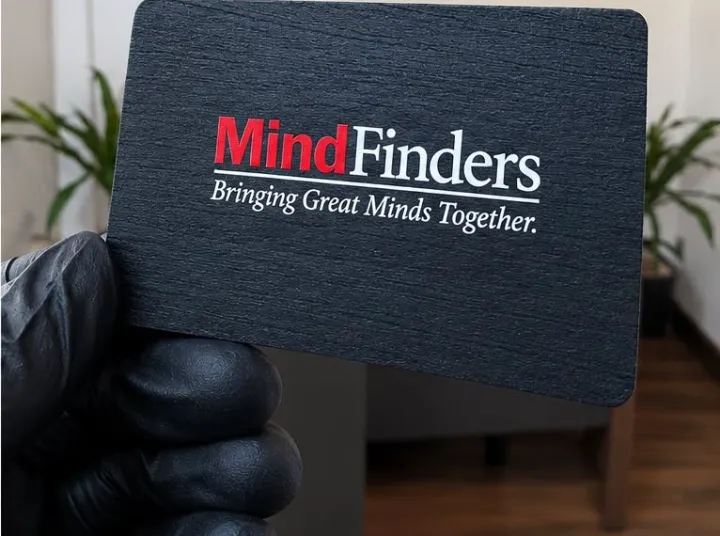
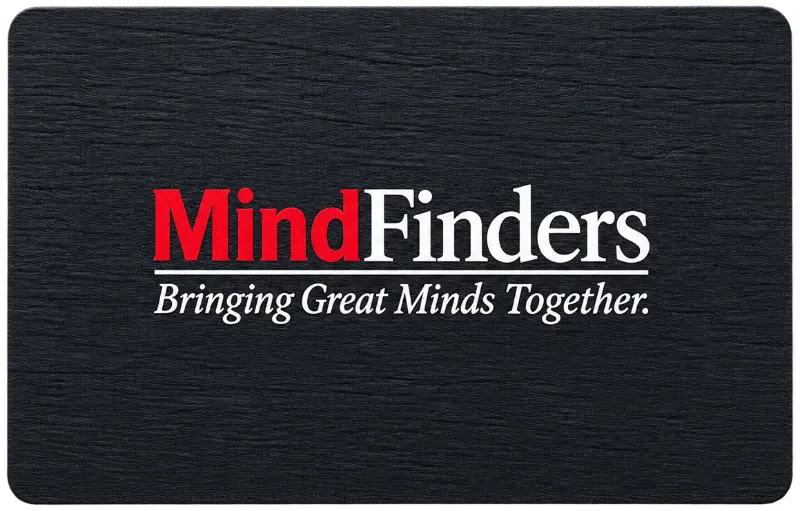
Card pages: cut-out wood photos, homepage-sized hero, full reviews
- Card section: the new transparent wood photos (trimmed to the card,
  800px webp), replacing the cropped photos.
- Hero: heading size, line height and top spacing match the homepage
  hero from 900px; the card is smaller (460px), centred beside the text
  and floating; no card on phones (its preload is desktop-only); no
  "Trusted by" line.
- Reviews: the homepage's marquee exactly, all reviews.
- "TAP. CONNECT." / "DONE." on two lines.
- Card section button names the card ("Get your Wood LuxeCard"); an
  optional label on the shared section, so the homepage is unchanged.

diff --git a/src/components/CardLandingPage.tsx b/src/components/CardLandingPage.tsx
@@ -1,7 +1,7 @@
 import { useEffect, useRef, useState, type ReactNode } from 'react';
 import { activeOffer, FINISH_PRICES_BY_LABEL, offerUnitPrice, productId } from '../../api/_lib/pricing';
 import { cardPageFaqs, HERO_IMAGE_SIZES, headlineParts, type CardFinishChoice, type CardPage } from '../data/cardPages';
-import { CUSTOMER_COUNT, PHOTOS_BY_MATERIAL, TESTIMONIALS } from '../data/content';
+import { PHOTOS_BY_MATERIAL } from '../data/content';
 import { useMountReveal } from '../hooks/useMountReveal';
 import { useOffer } from '../hooks/useOffer';
 import { hasAdConsent, onConsentChange } from '../utils/consent';
@@ -42,9 +42,6 @@ const photoFile = (caption: string) => caption.toLowerCase().replace(' ', '-');
 export function CardLandingPage({ card }: { card: CardPage }) {
   const [finish, setFinish] = useRememberedFinish(card);
   useViewContent(card);
-  const testimonials = card.testimonials
-    .map((name) => TESTIMONIALS.find((t) => t.name === name))
-    .filter((t) => t !== undefined);
   const gallery = card.gallery;
   const photos = gallery
     ? PHOTOS_BY_MATERIAL[gallery.material].filter((p) => !gallery.exclude?.includes(photoFile(p.caption)))
@@ -53,16 +50,26 @@ export function CardLandingPage({ card }: { card: CardPage }) {
   return (
     <main className="pt-[var(--nav-h)]">
       <CardHero card={card} finish={finish} onFinish={setFinish} />
-      <Testimonials testimonials={testimonials} />
+      {/* The homepage's reviews, exactly as there. */}
+      <Testimonials />
       <Ecosystem
         id="card"
         heading={<Headline text={card.showcase.headline} />}
         label={card.showcase.label}
         items={card.showcase.items}
         onOrder={scrollToOrder}
+        orderLabel={card.showcaseCta}
         trackViewContent={false}
       />
-      <HowItWorks heading={<Headline text="TAP. [CONNECT.] DONE." />} />
+      <HowItWorks
+        heading={
+          <>
+            TAP. <span className="text-accent">CONNECT.</span>
+            <br />
+            DONE.
+          </>
+        }
+      />
       {photos.length > 0 && (
         <Professionals
           heading={
@@ -248,7 +255,8 @@ function CardHero({ card, finish, onFinish }: { card: CardPage; finish: string |
   return (
     <section
       id="top"
-      className="relative overflow-hidden px-[clamp(20px,4vw,48px)] pb-[clamp(64px,9vh,120px)] pt-[clamp(28px,calc(12vh-60px),84px)]"
+      // From 900px: the homepage hero's own top spacing.
+      className="relative overflow-hidden px-[clamp(20px,4vw,48px)] pb-[clamp(64px,9vh,120px)] pt-[clamp(28px,calc(12vh-60px),84px)] min-[900px]:pt-[clamp(24px,calc(15vh-80px),84px)]"
       style={{ background: 'radial-gradient(120% 90% at 78% 10%, #16161A 0%, #0B0B0D 46%, #08080A 100%)' }}
     >
       <div
@@ -257,7 +265,9 @@ function CardHero({ card, finish, onFinish }: { card: CardPage; finish: string |
       >
         <div style={textStyle}>
           <div className={EYEBROW}>{card.hero.eyebrow}</div>
-          <h1 className="m-0 mb-6 font-manrope text-[clamp(40px,6.2vw,84px)] font-extrabold leading-[.98] max-md:leading-[1.04] tracking-[-0.035em] text-balance">
+          {/* From 900px: exactly the homepage hero heading's size (.hero-title)
+              and line height. */}
+          <h1 className="m-0 mb-6 font-manrope text-[clamp(40px,6.2vw,84px)] font-extrabold leading-[.98] max-md:leading-[1.04] tracking-[-0.035em] text-balance min-[900px]:text-[length:min(78px,calc((100vw_-_2*clamp(20px,4vw,48px)_-_clamp(48px,6vw,80px))/16.2))] min-[900px]:leading-[.96]">
             <Headline text={card.hero.headline} />
           </h1>
           <p className="m-0 mb-8 max-w-[480px] text-[clamp(16px,1.35vw,19px)] leading-[1.5] text-[rgba(243,240,234,.6)] text-pretty">
@@ -268,28 +278,27 @@ function CardHero({ card, finish, onFinish }: { card: CardPage; finish: string |
           <PrimaryButton onClick={scrollToOrder} className="mt-7">
             {card.cta} <span className="font-inter">→</span>
           </PrimaryButton>
-          <p className="m-0 mt-7 font-inter text-[11px] font-medium uppercase tracking-[.14em] text-grey-1">
-            Trusted by {CUSTOMER_COUNT}+ professionals across Kenya
-          </p>
         </div>
 
-        <div className="relative">
+        {/* Desktop only (phones go straight from the text to the reviews);
+            smaller, and centred beside the text. */}
+        <div className="relative hidden self-center min-[900px]:block">
           {/* A soft gold glow behind the card, like the homepage hero's. */}
           <div
             aria-hidden="true"
             className="pointer-events-none absolute left-1/2 top-1/2 h-[120%] w-[120%] -translate-x-1/2 -translate-y-1/2"
             style={{ background: 'radial-gradient(closest-side, rgba(253,211,3,.16), rgba(253,211,3,.04) 60%, transparent)' }}
           />
-          {/* Smaller on phones; it floats like the cards in the homepage's
-              "Crafted to Impress" (no motion with reduced motion). */}
-          <div className="animate-lc-float relative mx-auto aspect-[960/550] w-full max-w-[260px] sm:max-w-[420px] min-[900px]:max-w-[620px]">
+          {/* It floats like the cards in the homepage's "Crafted to Impress"
+              (no motion with reduced motion). */}
+          <div className="animate-lc-float relative mx-auto aspect-[960/550] w-full max-w-[460px]">
             {choices.map((choice, i) => (
               <FinishImage
                 key={choice.label}
                 choice={choice}
-                // The first finish is preloaded from <head>; the others are
-                // fetched lazily (they're on screen, so straight away).
-                eager={i === 0}
+                // Lazy, so phones (where it's hidden) never fetch it; on
+                // desktop the first finish is preloaded from <head>.
+                eager={false}
                 sizes={HERO_IMAGE_SIZES}
                 className={`transition-opacity duration-500 ${
                   (finish ? choice.label === finish : i === 0) ? 'opacity-100' : 'opacity-0'

diff --git a/src/data/cardPages.ts b/src/data/cardPages.ts
@@ -49,14 +49,14 @@ export type CardPage = {
   productDescription?: string;
   // The card(s), shown like the homepage's "Crafted to Impress".
   showcase: { headline: string; label: string; items: CardFinish[] };
+  // That section's button ("Get your Wood LuxeCard").
+  showcaseCta: string;
   // The light "What you get" section (the homepage's For Business layout).
   whatYouGet: { headline: string; points: { title: string; body: string }[] };
   // null: no gallery until there are photos. `exclude` leaves out portfolio
   // photos of another card (e.g. gold cards from the metallic folder) by
   // file name ("metallic-01").
   gallery: { material: PhotoMaterial; exclude?: string[] } | null;
-  // Names of existing testimonials (content.ts).
-  testimonials: string[];
   // This card's own questions (shown first, under "About the … card"), then
   // the site's own answers by id.
   faqs: Faq[];
@@ -105,6 +105,7 @@ const PLASTIC: CardPage = {
   finishes: null,
   image: { label: 'Plastic', alt: 'LuxeCard in plastic', ...heroImage('plastic', 'hero', cardPhoto('card-plastic', 960)) },
   finishNote: 'Any colour you like. You choose it when we design your card.',
+  showcaseCta: 'Get your Plastic LuxeCard',
   showcase: {
     headline: 'BUILT FOR [EVERY DAY.]',
     label: 'Any Colour. One Card.',
@@ -125,7 +126,6 @@ const PLASTIC: CardPage = {
     points: [{ title: 'Any colour', body: 'Chosen when we design your card.' }, NFC_POINT, PROFILE_POINT, DESIGN_POINT],
   },
   gallery: { material: 'plastic' },
-  testimonials: ['Lyban Mbatha', 'K. Keli', 'Stanley Juma'],
   faqs: [
     { q: 'What colours are available?', a: 'Any colour you like. You’ll see it on your mockup before production.' },
     { q: 'Why choose plastic?', a: 'It’s lightweight, durable and built for everyday carry.' },
@@ -154,6 +154,7 @@ const WOOD: CardPage = {
       ...heroImage('wood', 'hero-black', { image: woodBlackPlaceholder, fit: 'cover', objectPosition: '50% 72%' }),
     },
   ],
+  showcaseCta: 'Get your Wood LuxeCard',
   showcase: {
     headline: 'STAND OUT BEFORE YOU [SAY A WORD.]',
     label: 'Two Finishes. One Card.',
@@ -163,18 +164,18 @@ const WOOD: CardPage = {
         priceLabel: 'Wood',
         blurb: 'Real wood with a warm, distinctive grain.',
         image: woodNaturalPhoto,
-        alt: 'A natural wood LuxeCard, held up',
-        width: 720,
-        height: 536,
+        alt: 'LuxeCard in natural wood',
+        width: 800,
+        height: 524,
       },
       {
         name: 'Wood: Black',
         priceLabel: 'Wood',
         blurb: 'Real wood, finished in black.',
         image: woodBlackPhoto,
-        alt: 'A black wood LuxeCard, held up',
-        width: 720,
-        height: 536,
+        alt: 'LuxeCard in black wood',
+        width: 800,
+        height: 511,
       },
     ],
   },
@@ -183,7 +184,6 @@ const WOOD: CardPage = {
     points: [{ title: 'Real wood', body: 'Natural or Black.' }, NFC_POINT, PROFILE_POINT, DESIGN_POINT],
   },
   gallery: { material: 'wood' },
-  testimonials: ['Lyban Mbatha', 'CR Advocates LLP', 'Stanley Juma'],
   faqs: [
     { q: 'Why choose wood?', a: 'It’s real wood: naturally lightweight, with a warm, distinctive grain.' },
     { q: 'What finishes are available?', a: 'Natural and Black. You’ll see yours on your mockup before production.' },
@@ -213,6 +213,7 @@ const METALLIC: CardPage = {
       ...heroImage('metal', 'hero-black', { image: metallicBlackPlaceholder, fit: 'cover', objectPosition: '50% 55%' }),
     },
   ],
+  showcaseCta: 'Get your Metallic LuxeCard',
   showcase: {
     headline: 'FELT BEFORE IT’S [READ.]',
     label: 'Two Finishes. One Card.',
@@ -251,7 +252,6 @@ const METALLIC: CardPage = {
       'metallic-18', 'metallic-21', 'metallic-23', 'metallic-26', 'metallic-28', 'metallic-10', 'metallic-22',
     ],
   },
-  testimonials: ['Chirag Solanki', 'K. Keli', 'CR Advocates LLP'],
   faqs: [
     { q: 'What finishes are available?', a: 'Silver and Black. You’ll see yours on your mockup before production.' },
     { q: 'Why choose metallic?', a: 'For solid metal weight: a tactile statement piece.' },
@@ -279,6 +279,7 @@ const CHAIRMAN: CardPage = {
   },
   finishNote: 'Gold finish.',
   productDescription: 'A gold finish, reserved for the boldest introductions.',
+  showcaseCta: 'Get your Chairman’s Card',
   showcase: {
     headline: 'THE CARD AT THE [HEAD OF THE TABLE.]',
     label: 'Gold Finish. One Card.',
@@ -305,7 +306,6 @@ const CHAIRMAN: CardPage = {
   },
   // Until there are Chairman's Card photos.
   gallery: null,
-  testimonials: ['Lyban Mbatha', 'K. Keli', 'CR Advocates LLP'],
   faqs: [
     {
       q: 'What makes the Chairman’s Card different?',
@@ -324,8 +324,9 @@ export const CARD_PAGES: CardPage[] = CARD_PAGE_SEO.map((seo) => {
   return page;
 });
 
-// How wide a card page's hero photo shows, for its srcset (smaller on phones).
-export const HERO_IMAGE_SIZES = '(min-width: 900px) 620px, (min-width: 640px) 420px, 260px';
+// How wide a card page's hero photo shows, for its srcset (desktop only;
+// phones don't show it).
+export const HERO_IMAGE_SIZES = '460px';
 
 // The image a card page shows first (for a high-priority preload).
 export function cardPageHeroImage(path: string): { image: string; srcSet?: string; sizes: string } | undefined {

diff --git a/src/components/Ecosystem.tsx b/src/components/Ecosystem.tsx
@@ -25,6 +25,7 @@ export function Ecosystem({
   label = 'Four Finishes. One Card.',
   items = CARD_FINISHES,
   onOrder,
+  orderLabel,
   trackViewContent = true,
 }: {
   id?: string;
@@ -32,6 +33,9 @@ export function Ecosystem({
   label?: string;
   items?: CardFinish[];
   onOrder?: () => void;
+  // The Order button's text (a card page names its card); it may wrap on
+  // narrow phones, where a longer name doesn't fit beside the chevrons.
+  orderLabel?: string;
   trackViewContent?: boolean;
 } = {}) {
   const { open: openInquiryModal, preload: preloadInquiryModal } = useInquiryModal();
@@ -174,9 +178,13 @@ export function Ecosystem({
                 onClick={onOrder ?? (() => openInquiryModal('individual'))}
                 onMouseEnter={onOrder ? undefined : preloadInquiryModal}
                 onFocus={onOrder ? undefined : preloadInquiryModal}
-                className="inline-flex items-center gap-1.5 whitespace-nowrap text-[14px] text-ivory min-[390px]:gap-2.5 min-[390px]:text-[14.5px]"
+                className={
+                  orderLabel
+                    ? 'inline-flex items-center gap-1.5 text-left text-[14px] text-ivory min-[390px]:gap-2.5 min-[390px]:text-[14.5px]'
+                    : 'inline-flex items-center gap-1.5 whitespace-nowrap text-[14px] text-ivory min-[390px]:gap-2.5 min-[390px]:text-[14.5px]'
+                }
               >
-                Order Your LuxeCard <span className="font-inter">→</span>
+                {orderLabel ?? 'Order Your LuxeCard'} <span className="font-inter">→</span>
               </button>
               {/* With a single card there's nothing to switch to; the
                   buttons keep their space so the card's layout is the same. */}
